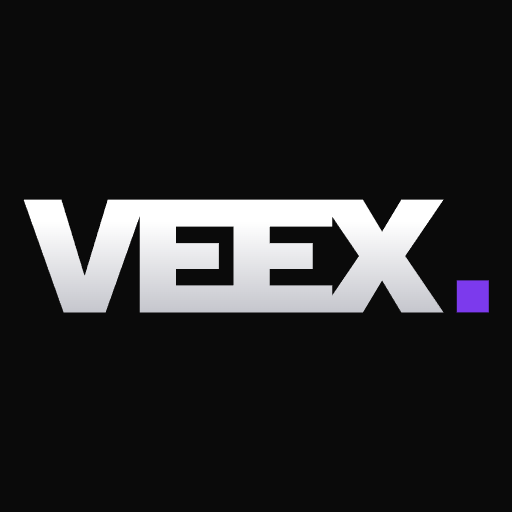
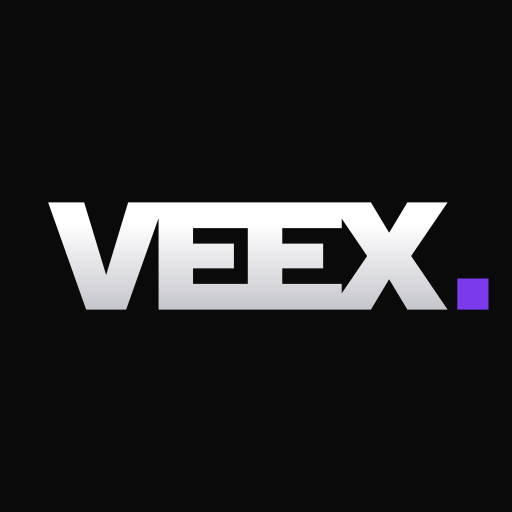
Iconos centrados a ojo

diff --git a/index.html b/index.html
@@ -6,8 +6,8 @@
   <title>VEEX — Coming soon</title>
   <meta name="description" content="VEEX — Coming soon.">
   <meta name="theme-color" content="#0a0a0a">
-  <link rel="icon" type="image/png" sizes="32x32" href="favicon-32.png?v=4">
-  <link rel="icon" type="image/png" sizes="64x64" href="favicon-64.png?v=4">
+  <link rel="icon" type="image/png" sizes="32x32" href="favicon-32.png?v=5">
+  <link rel="icon" type="image/png" sizes="64x64" href="favicon-64.png?v=5">
   <meta property="og:title" content="VEEX — Coming soon">
   <meta property="og:description" content="Coming soon.">
   <meta property="og:url" content="https://veexapp.com">
